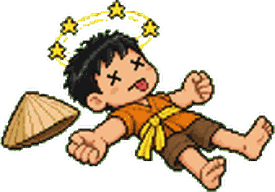
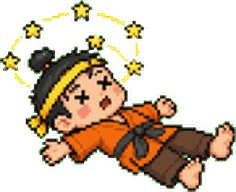
art(sprites): make Tí Bụp poses consistent (topknot, no hat) and fix Hỏa Yến block outfit
Five Tí Bụp poses (walk, jump, block, down, super) were generated with a
conical hat while idle/attack/hurt use the topknot and yellow headband,
so the hero changed headgear mid-fight. Regenerated those five plus
Hỏa Yến's block pose (long dress vs. her top and shorts) from the
style-guide descriptions with explicit no-hat wording; manifest ids
updated; consistency rule added to the art style guide.

Claude-Session: https://claude.ai/code/session_01UqXqDxYeGoWj4VXwpkBnn8

diff --git a/public/preview/config.js b/public/preview/config.js
@@ -1,1 +1,1 @@
-var CONFIG = {"analyticsUrl":"https://iyabxhznvcmgbpjzzyta.supabase.co","analyticsKey":"eyJhbGciOiJIUzI1NiIsInR5cCI6IkpXVCJ9.eyJpc3MiOiJzdXBhYmFzZSIsInJlZiI6Iml5YWJ4aHpudmNtZ2Jwanp6eXRhIiwicm9sZSI6ImFub24iLCJpYXQiOjE3NjYxMjc0NDUsImV4cCI6MjA4MTcwMzQ0NX0.nvWnfif5VzxEZCpEwCgSeJrCLGzbTSzFFzeMAny6eUk","portal":"","version":"c85c59f","lang":"","img":["s/bangnhi-attack","s/bangnhi-block","s/bangnhi-down","s/bangnhi-hurt","s/bangnhi-idle","s/bangnhi-super","s/bangvuong-attack","s/bangvuong-down","s/bangvuong-hurt","s/bangvuong-idle","s/canhcut-attack","s/canhcut-down","s/canhcut-hurt","s/canhcut-idle","s/cao-attack","s/cao-block","s/cao-hurt","s/cao-idle","s/gabip-idle","s/ganuong-attack","s/ganuong-down","s/ganuong-hurt","s/ganuong-idle","s/hoalong-attack","s/hoalong-down","s/hoalong-hurt","s/hoalong-idle","s/hoayen-attack","s/hoayen-block","s/hoayen-down","s/hoayen-hurt","s/hoayen-idle","s/hoayen-super","s/khilua-attack","s/khilua-down","s/khilua-hurt","s/khilua-idle","s/linhco-attack","s/linhco-block","s/linhco-hurt","s/linhco-idle","s/linhdem-attack","s/linhdem-block","s/linhdem-hurt","s/linhdem-idle","s/lytruong-attack","s/lytruong-down","s/lytruong-hurt","s/lytruong-idle","s/nguoituyet-attack","s/nguoituyet-down","s/nguoituyet-hurt","s/nguoituyet-idle","s/rua-attack","s/rua-down","s/rua-hurt","s/rua-idle","s/thachlao-attack","s/thachlao-block","s/thachlao-down","s/thachlao-hurt","s/thachlao-idle","s/thachlao-super","s/thienbinh-attack","s/thienbinh-down","s/thienbinh-hurt","s/thienbinh-idle","s/tibup-attack","s/tibup-block","s/tibup-down","s/tibup-hurt","s/tibup-idle","s/tibup-jump","s/tibup-super","s/tibup-walk","s/tiennu-attack","s/tiennu-down","s/tiennu-hurt","s/tiennu-idle","s/traului-attack","s/traului-down","s/traului-hurt","s/traului-idle","s/vitgia-attack","s/vitgia-block","s/vitgia-hurt","s/vitgia-idle","p/bangnhi","p/bangvuong","p/banoi","p/canhcut","p/cao","p/gabip","p/ganuong","p/hoalong","p/hoayen","p/khilua","p/linhco","p/linhdem","p/lytruong","p/nguoituyet","p/rua","p/thachlao","p/thienbinh","p/tibup","p/tiennu","p/traului","p/vitgia","bg/chodem","bg/chodem2","bg/chodem3","bg/congtroi","bg/congtroi2","bg/congtroi3","bg/daolua","bg/daolua2","bg/daolua3","bg/langtre","bg/langtre2","bg/langtre3","bg/pro-banoi","bg/pro-rua","bg/songbang","bg/songbang2","bg/songbang3"],"imgBase":"../img/"};
+var CONFIG = {"analyticsUrl":"https://iyabxhznvcmgbpjzzyta.supabase.co","analyticsKey":"eyJhbGciOiJIUzI1NiIsInR5cCI6IkpXVCJ9.eyJpc3MiOiJzdXBhYmFzZSIsInJlZiI6Iml5YWJ4aHpudmNtZ2Jwanp6eXRhIiwicm9sZSI6ImFub24iLCJpYXQiOjE3NjYxMjc0NDUsImV4cCI6MjA4MTcwMzQ0NX0.nvWnfif5VzxEZCpEwCgSeJrCLGzbTSzFFzeMAny6eUk","portal":"","version":"2049453","lang":"","img":["s/bangnhi-attack","s/bangnhi-block","s/bangnhi-down","s/bangnhi-hurt","s/bangnhi-idle","s/bangnhi-super","s/bangvuong-attack","s/bangvuong-down","s/bangvuong-hurt","s/bangvuong-idle","s/canhcut-attack","s/canhcut-down","s/canhcut-hurt","s/canhcut-idle","s/cao-attack","s/cao-block","s/cao-hurt","s/cao-idle","s/gabip-idle","s/ganuong-attack","s/ganuong-down","s/ganuong-hurt","s/ganuong-idle","s/hoalong-attack","s/hoalong-down","s/hoalong-hurt","s/hoalong-idle","s/hoayen-attack","s/hoayen-block","s/hoayen-down","s/hoayen-hurt","s/hoayen-idle","s/hoayen-super","s/khilua-attack","s/khilua-down","s/khilua-hurt","s/khilua-idle","s/linhco-attack","s/linhco-block","s/linhco-hurt","s/linhco-idle","s/linhdem-attack","s/linhdem-block","s/linhdem-hurt","s/linhdem-idle","s/lytruong-attack","s/lytruong-down","s/lytruong-hurt","s/lytruong-idle","s/nguoituyet-attack","s/nguoituyet-down","s/nguoituyet-hurt","s/nguoituyet-idle","s/rua-attack","s/rua-down","s/rua-hurt","s/rua-idle","s/thachlao-attack","s/thachlao-block","s/thachlao-down","s/thachlao-hurt","s/thachlao-idle","s/thachlao-super","s/thienbinh-attack","s/thienbinh-down","s/thienbinh-hurt","s/thienbinh-idle","s/tibup-attack","s/tibup-block","s/tibup-down","s/tibup-hurt","s/tibup-idle","s/tibup-jump","s/tibup-super","s/tibup-walk","s/tiennu-attack","s/tiennu-down","s/tiennu-hurt","s/tiennu-idle","s/traului-attack","s/traului-down","s/traului-hurt","s/traului-idle","s/vitgia-attack","s/vitgia-block","s/vitgia-hurt","s/vitgia-idle","p/bangnhi","p/bangvuong","p/banoi","p/canhcut","p/cao","p/gabip","p/ganuong","p/hoalong","p/hoayen","p/khilua","p/linhco","p/linhdem","p/lytruong","p/nguoituyet","p/rua","p/thachlao","p/thienbinh","p/tibup","p/tiennu","p/traului","p/vitgia","bg/chodem","bg/chodem2","bg/chodem3","bg/congtroi","bg/congtroi2","bg/congtroi3","bg/daolua","bg/daolua2","bg/daolua3","bg/langtre","bg/langtre2","bg/langtre3","bg/pro-banoi","bg/pro-rua","bg/songbang","bg/songbang2","bg/songbang3"],"imgBase":"../img/"};

diff --git a/public/config.js b/public/config.js
@@ -1,1 +1,1 @@
-var CONFIG = {"analyticsUrl":"https://iyabxhznvcmgbpjzzyta.supabase.co","analyticsKey":"eyJhbGciOiJIUzI1NiIsInR5cCI6IkpXVCJ9.eyJpc3MiOiJzdXBhYmFzZSIsInJlZiI6Iml5YWJ4aHpudmNtZ2Jwanp6eXRhIiwicm9sZSI6ImFub24iLCJpYXQiOjE3NjYxMjc0NDUsImV4cCI6MjA4MTcwMzQ0NX0.nvWnfif5VzxEZCpEwCgSeJrCLGzbTSzFFzeMAny6eUk","portal":"","version":"c85c59f","lang":"","img":[],"imgBase":"img/"};
+var CONFIG = {"analyticsUrl":"https://iyabxhznvcmgbpjzzyta.supabase.co","analyticsKey":"eyJhbGciOiJIUzI1NiIsInR5cCI6IkpXVCJ9.eyJpc3MiOiJzdXBhYmFzZSIsInJlZiI6Iml5YWJ4aHpudmNtZ2Jwanp6eXRhIiwicm9sZSI6ImFub24iLCJpYXQiOjE3NjYxMjc0NDUsImV4cCI6MjA4MTcwMzQ0NX0.nvWnfif5VzxEZCpEwCgSeJrCLGzbTSzFFzeMAny6eUk","portal":"","version":"2049453","lang":"","img":[],"imgBase":"img/"};

diff --git a/docs/art-style-guide.md b/docs/art-style-guide.md
@@ -69,3 +69,5 @@ Mỗi vùng có ba sân đấu: cửa 1–3 cảnh chính, cửa 4–5 cảnh ha
 
 ## Tư thế đợt 2 (ADR-005)
 Thêm vào mẫu sprite: `walk` = "walking mid-stride with one leg forward and arms swinging"; `jump` = "mid-air jumping pose with knees tucked up and one fist raised high"; `block` = "guarding stance with both forearms raised in front of the face, knees slightly bent, braced against a hit"; `down` = "knocked down and lying flat on the ground on the back with arms spread, little stars circling above, eyes as crosses"; `super` = tư thế tuyệt chiêu riêng (xem `SUPERS` trong world.js). Loader rơi về: down → hurt, block/jump/walk/crouch → idle, super → attack.
+
+Quy tắc đồng nhất tạo hình (2026-10-26): mỗi tư thế mới của một nhân vật phải lặp lại nguyên văn DESC của nhân vật đó và nói rõ phụ kiện đầu (ví dụ Tí Bụp: `bare head with NO hat, topknot bun with yellow headband`), vì model hay tự thêm nón lá hoặc đổi trang phục. Trước khi nhận hình, xếp tất cả tư thế của nhân vật cạnh nhau để so tóc, mũ, áo, giày.
